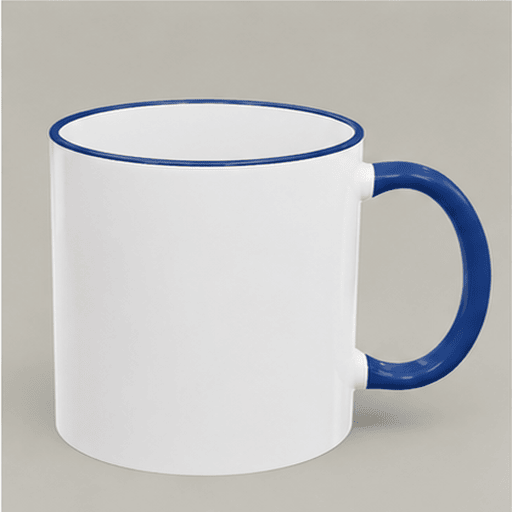
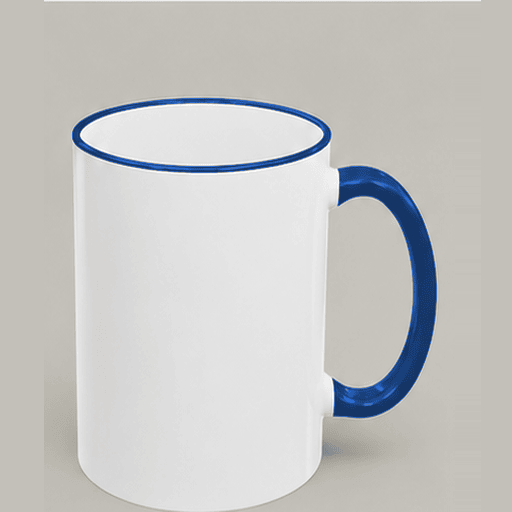
Trimmed mug previews: a correct photo set for each size
The Trimmed colour previews mixed two photo shoots: a tall 15oz shape
(black, yellow) and a squat 11oz shape (the files labelled 15oz blue,
green and maroon). Both sizes shared the files, so a 15oz customer saw an
11oz mug for three colours and an 11oz customer saw a 15oz mug for two.

The 11oz-shaped photos are now the 11oz blue/green/maroon files. The 15oz
blue/green/maroon are recoloured from the real 15oz black photo, and the
11oz black/yellow are recoloured from the real 11oz maroon photo. The
preview map points each size at its own set.

Claude-Session: https://claude.ai/code/session_017LUKDusy7qkDLgAi98z2pW

diff --git a/needles-studio.html b/needles-studio.html
@@ -2,10 +2,10 @@
 <!DOCTYPE html>
 <html lang="en">
 <head><link rel="manifest" href="needles-manifest.json">
-<!-- BUILD-MARKER: BACK-BUTTONS-BYO-v44 -->
+<!-- BUILD-MARKER: MUG-PHOTOS-BY-SIZE-v45 -->
 <!-- If you can see this comment on GitHub, this exact paste landed. -->
 <!-- If your live site's page source does NOT say -->
-<!-- "BACK-BUTTONS-BYO-v44" right here, the upload/deploy did -->
+<!-- "MUG-PHOTOS-BY-SIZE-v45" right here, the upload/deploy did -->
 <!-- not take -- re-upload before testing. -->
 <meta charset="UTF-8"/>
 <meta name="viewport" content="width=device-width, initial-scale=1.0"/>
@@ -5124,12 +5124,19 @@ const MUG_MOCKUP_PHOTOS = {
       "Maroon": "mug-trimmed-15oz-maroon.png",
       "Yellow": "mug-trimmed-15oz-yellow.png"
     },
+    // CORRECTED (Sep 2026, Alyx): the Trimmed photos come from two different
+    // shoots -- a tall 15oz shape (black, yellow) and a squat 11oz shape (the
+    // files that used to be labelled 15oz blue/green/maroon). Sharing files
+    // across sizes showed a 15oz customer an 11oz mug for three colours and
+    // an 11oz customer a 15oz mug for two. Each size now has its own full
+    // set: 15oz blue/green/maroon recoloured from the real 15oz black photo,
+    // 11oz black/yellow recoloured from the real 11oz maroon photo.
     "11oz": {
-      "Black": "mug-trimmed-15oz-black.png",
-      "Blue": "mug-trimmed-15oz-blue.png",
-      "Maroon": "mug-trimmed-15oz-maroon.png",
-      "Green": "mug-trimmed-15oz-green.png",
-      "Yellow": "mug-trimmed-15oz-yellow.png",
+      "Black": "mug-trimmed-11oz-black.png",
+      "Blue": "mug-trimmed-11oz-blue.png",
+      "Maroon": "mug-trimmed-11oz-maroon.png",
+      "Green": "mug-trimmed-11oz-green.png",
+      "Yellow": "mug-trimmed-11oz-yellow.png",
       "Red": "mug-trimmed-11oz-red.png",
       "Light Blue": "mug-trimmed-11oz-light-blue.png",
       "Orange": "mug-trimmed-11oz-orange.png",
